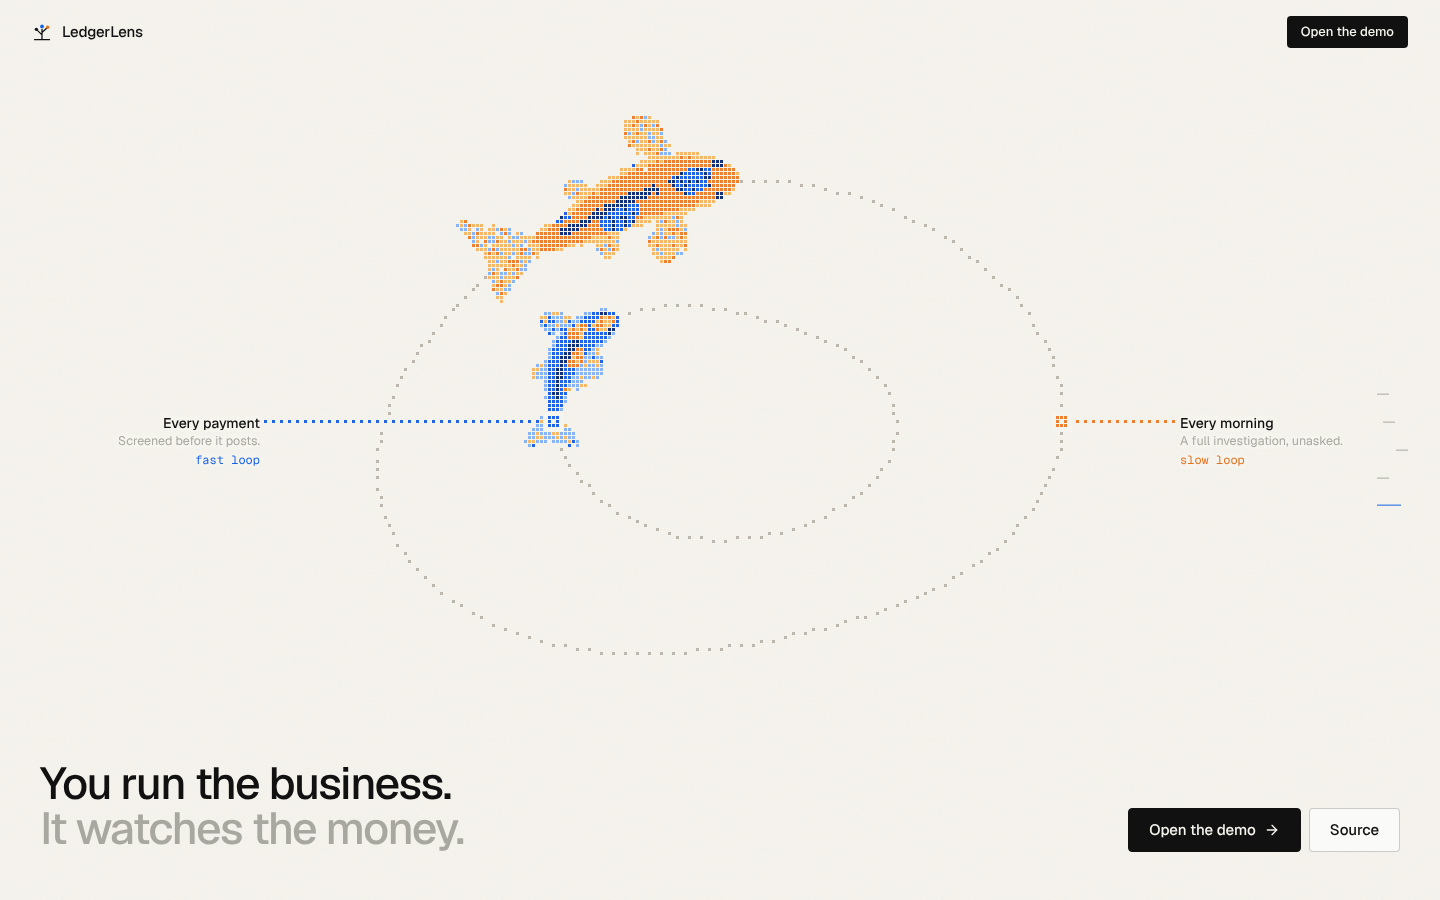
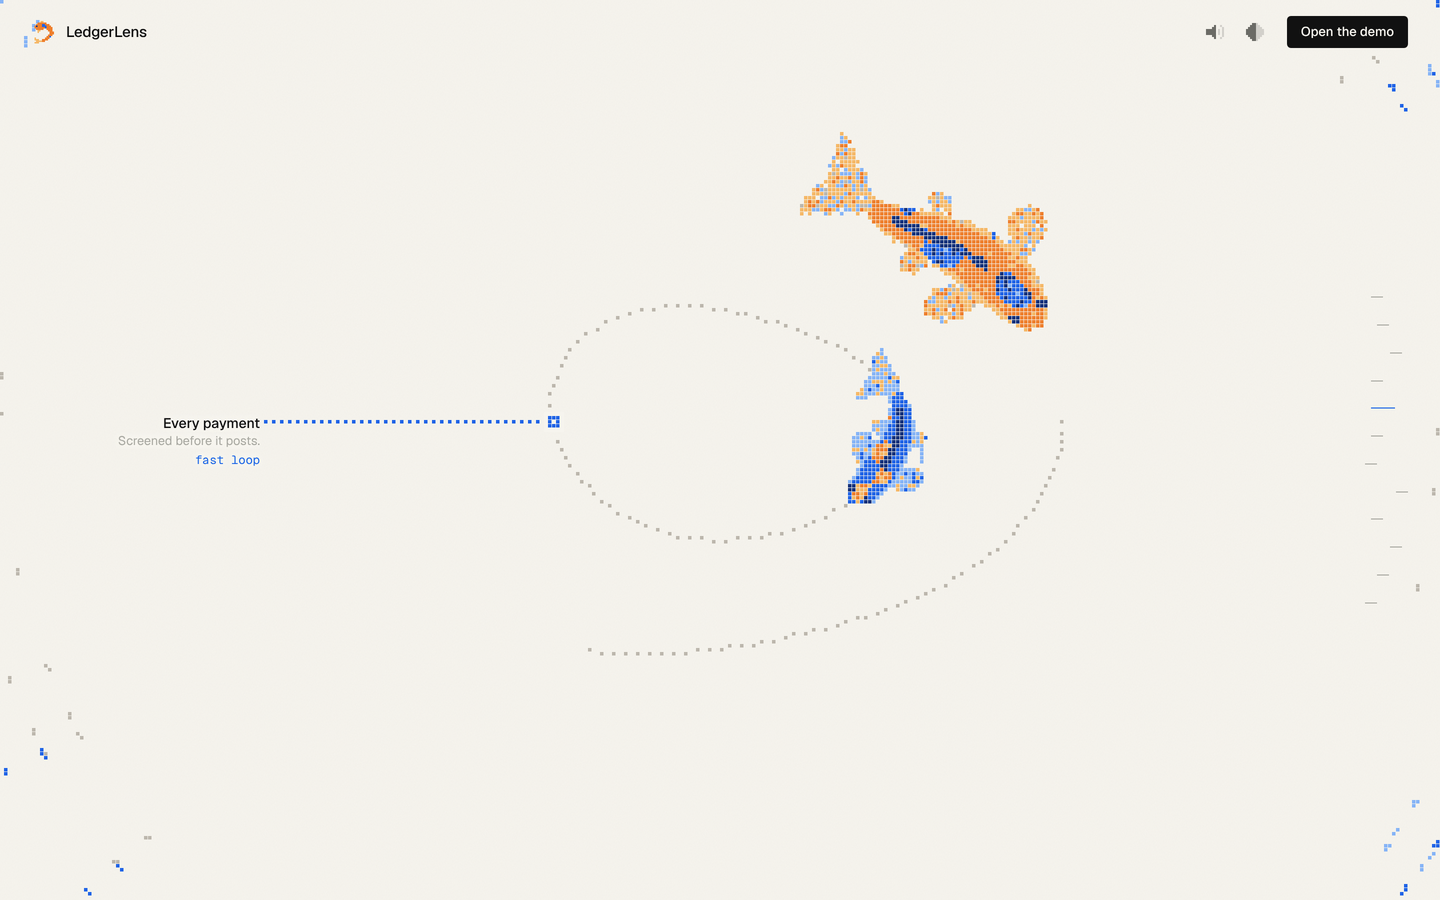
README: current landing stills and story
The landing screenshots and the demo walkthrough described the old ending
(a drop, a pond in bloom). They now show the tree, the two loops, the leak
card on the river and the ending, captured from current main, and the
walkthrough follows the fisherman, the chase and the cards.

Claude-Session: https://claude.ai/code/session_017RTVFSkEtLUiApmAmBx96h

diff --git a/README.md b/README.md
@@ -239,7 +239,7 @@ That pushes the Convex functions and builds Next.js against the production deplo
 
 With `DEMO_MODE=true` (on the Convex deployment) the header shows **Reset demo** and the demo seed and reset functions run. With it off, they refuse with FORBIDDEN and the button is hidden. The suggested demo:
 
-1. Open the landing page and scroll: the tree grows from Acme Outdoor Co.'s books to its findings. Click a finding to grow twigs out to its evidence. Keep scrolling: the tree condenses into a drop that falls into still water, and two koi come up to swim the two loops described below. Keep going and the orange koi swims off down a river, around five rocks, each a problem LedgerLens handles, to a pond in bloom at the bottom of the page. Then click **Open the demo**.
+1. Open the landing page and scroll: the tree grows from Acme Outdoor Co.'s books to its findings. Click a finding to grow twigs out to its evidence. Keep scrolling: two koi swim the two loops described below, then they swim off down a river past the problems LedgerLens handles. A fisherman reels up the blue koi and the orange one chases him down the river, while small cards over the scenes follow one real finding from the engine, the payment to Summit Packaging made twice: the leak ($1,058), the slow loop reading all 1,187 records during the chase, the two bank lines that prove it, and a refund request waiting for approval. The page ends with the koi, their young and the other three findings ($3,228 a year). Then click **Open the demo**.
 2. **Books.** The overview builds a wall of every record of the last six months: one square per sale or bank line, one column per week, money in stacked above the axis and money out below it. Within each week a product's sales always sit in the same place, so one product reads as a band across the weeks. Above the wall, one short line shows the parts of the system (the data, the rules, Apify, Claude and you) and what the part in front is doing; a part lights while it works, a square travels between two parts whenever data passes, and a dashed part is not used on this run. Press → to move between beats (or click them on the left); ↵ always does the beat's one thing.
 3. **Investigate.** Press ↵. A blue beam sweeps the weeks as the engine works through its ten steps (ten squares under the wall fill as they finish, orange when one turns up money). Records it suspects turn pale orange, and each leak lights up in orange as it is measured, with its label and amount: the bottle's sales form an orange band from the week its supplier raised the cost. On the live deployment Claude plans the market research and explains the findings, and Apify fetches the competitor prices in between.
 4. **Decide.** One fix at a time. Every other record fades, leaving the records behind the fix in orange, with the drafted email or price change below and the amount beside it. Press ↵ to approve: the records flip to blue in a wave, left to right. → moves to the next fix. The arithmetic behind each amount and the cash forecast are in the details panel (d).
@@ -269,17 +269,19 @@ To record the walkthrough in one take, press p (or open `/overview?tour`): the o
 
 ## Screenshots
 
-The landing page, fully grown. The roots are the demo company's books, the trunk is the engine, each limb is a finding, and the share of a limb that is orange is proportional to the money it recovers. Scrolling grows the tree; clicking a finding grows twigs out to its evidence. Past the tree, the blue koi swims the fast loop (each payment screened before it posts) and the orange one the slow loop (an investigation every morning):
+The landing page, fully grown. The roots are the demo company's books, the trunk is the engine, each limb is a finding, and the share of a limb that is orange is proportional to the money it recovers. Scrolling grows the tree; clicking a finding grows twigs out to its evidence:
 
 ![Landing page](docs/screenshots/landing.png)
 
-![Landing page, past the tree](docs/screenshots/landing-pond.png)
+Past the tree, the blue koi swims the fast loop (each payment screened before it posts) and the orange one the slow loop (an investigation every morning):
 
-Then the orange koi leaves its loop and swims down a river. Each rock is a problem a small business runs into and LedgerLens handles: fake invoices, paying twice, rising costs, underpricing, and questions about the books. The river ends in a pond that blooms as the koi swims in, and the page ends there:
+![Landing page, the two loops](docs/screenshots/landing-pond.png)
 
-![Landing page, the river](docs/screenshots/landing-river.png)
+Down the river, the story follows the engine's duplicate payment from the leak to the refund. Every figure on the cards comes from an engine run over the demo books at build time:
 
-![Landing page, the pond at the end](docs/screenshots/landing-end.png)
+![Landing page, the leak](docs/screenshots/landing-river.png)
+
+![Landing page, the end](docs/screenshots/landing-end.png)
 
 The overview after an investigation: 1,187 records, one square each and one column per week, with four leaks lit up in orange and labelled with what they cost. These are from the offline replay, which runs on the rules-based narrative and the demo price dataset, so the Apify and Claude parts show as unused (dashed); on the live deployment they light up in their steps:
 
@@ -301,6 +303,6 @@ On a phone:
 
 ![Mobile](docs/screenshots/mobile.png)
 
-The look is a field notebook: warm paper, black ink, hairline rules, and two pigments. Blue is the books; orange is money the engine found. Type is Geist, with anything measured set in Geist Mono. The landing tree is generated from a fixed seed (`lib/landing/tree.ts`) and drawn on a pixel grid on a canvas, one frame per scroll position; the drop, ripples and koi that follow it (`lib/landing/pond.ts`), the river (`lib/landing/river.ts`) and the pond at the end (`lib/landing/garden.ts`) are drawn on the same grid, which goes to the screen as one small image scaled up. The overview's wall is drawn on a canvas too: each square eases to its color on its own clock, so a finding spreads through its records from the one its label points at, and an approval flips them back to blue in a wave. Every figure on the landing page comes from running the engine over the demo books at build time (`lib/landing/data.ts`). The site follows the system light or dark setting and respects reduced motion.
+The look is a field notebook: warm paper, black ink, hairline rules, and two pigments. Blue is the books; orange is money the engine found. Type is Geist, with anything measured set in Geist Mono. The landing tree is generated from a fixed seed (`lib/landing/tree.ts`) and drawn on a pixel grid on a canvas, one frame per scroll position; the drop, ripples and koi that follow it (`lib/landing/pond.ts`), the river (`lib/landing/river.ts`), the pond (`lib/landing/garden.ts`), the fisherman and the chase (`lib/landing/fisher.ts`, `lib/landing/story.ts`) and the reef where the story ends (`lib/landing/reef.ts`) are drawn on the same grid, which goes to the screen as one small image scaled up. The overview's wall is drawn on a canvas too: each square eases to its color on its own clock, so a finding spreads through its records from the one its label points at, and an approval flips them back to blue in a wave. Every figure on the landing page comes from running the engine over the demo books at build time (`lib/landing/data.ts`). The site follows the system light or dark setting and respects reduced motion.
 
 In development, `/preview/overview`, `/preview/findings/0` and `/preview/activity` render the app views from an in-memory engine run, without a Convex deployment (`?approved=1` on a finding shows the approved state). These routes return 404 in production.
